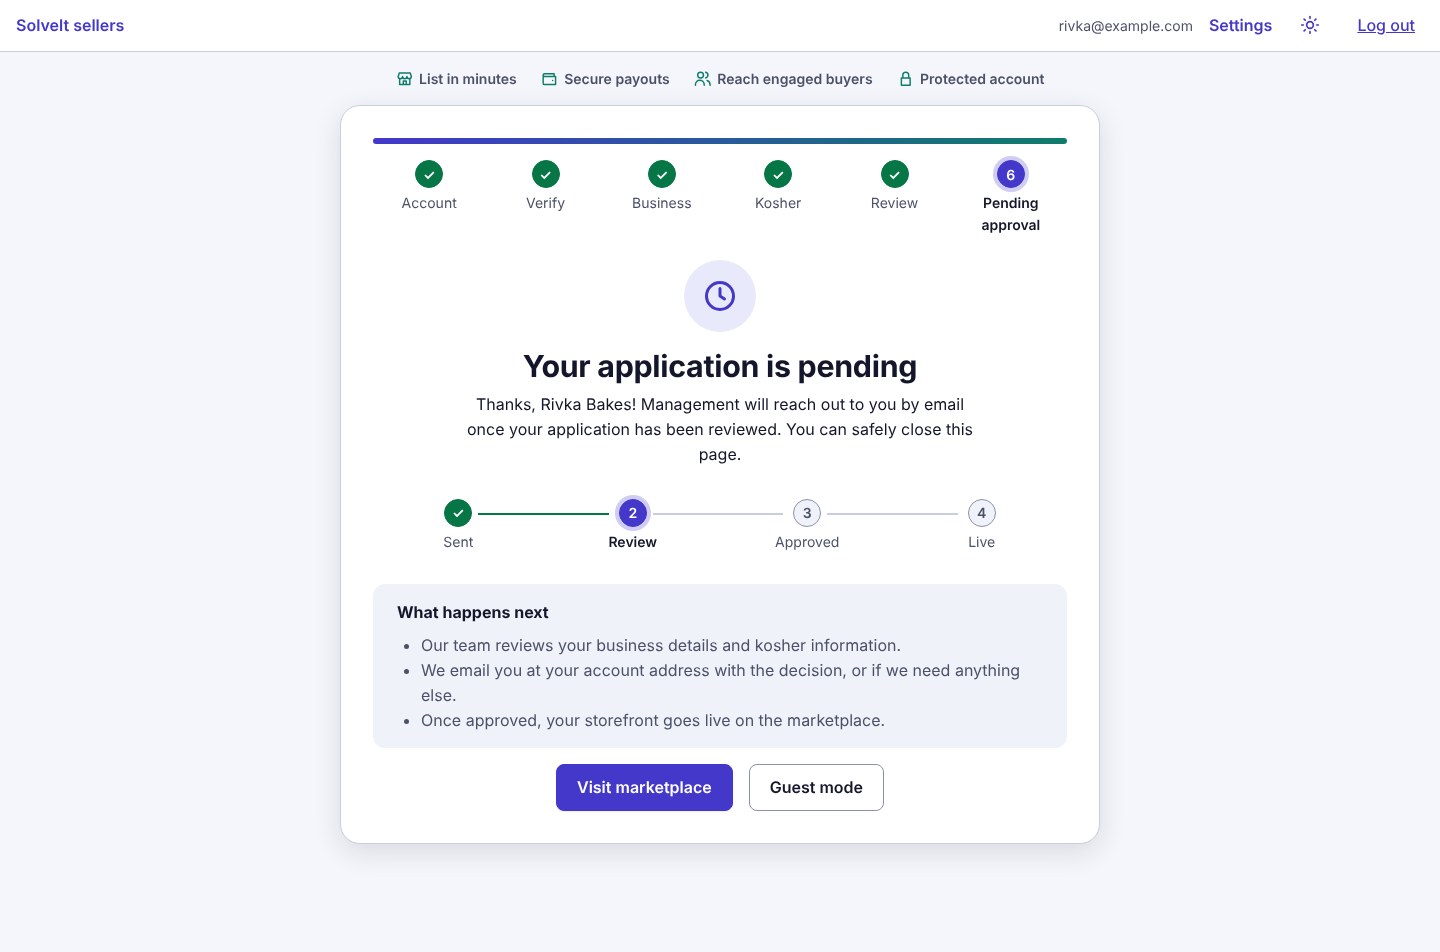
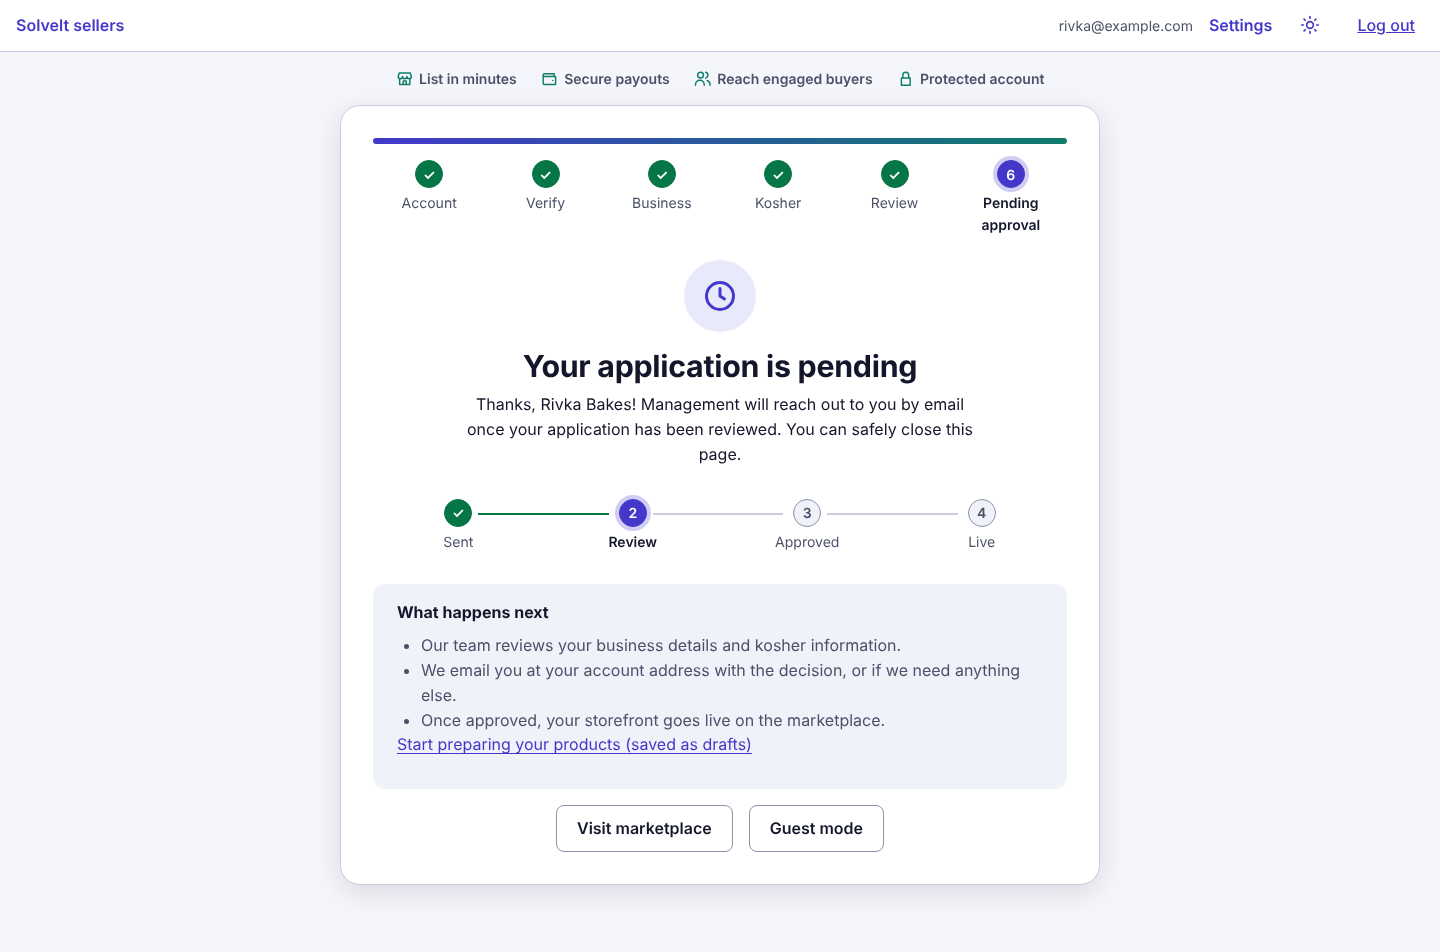
Approved/Live owners land on /products; status-aware pending screen (You're all set / drafts link, accurate copy); tests, e2e, screenshots, docs
Claude-Session: https://claude.ai/code/session_018hZb8p3U4e1ZXzoHRqf6yf

Changed region(s): [[0.25, 0.7616, 0.75, 0.9139]]

diff --git a/src/pages/wizard.test.tsx b/src/pages/wizard.test.tsx
@@ -199,6 +199,59 @@ describe('wizard navigation and guards', () => {
     expect(within(tracker).getByText('Approved').closest('li')).toHaveAttribute('aria-current', 'step')
   })
 
+  describe('pending screen by status', () => {
+    const open = async (status: string, note: string | null = null) => {
+      backend(application({ status, statusNote: note, draftStep: 5 }))
+      renderAt(wizardRoutes, '/signup/pending')
+      await screen.findByRole('heading', { level: 1 })
+    }
+    const productsLinks = () => screen.queryAllByRole('link').filter((l) => l.getAttribute('href') === '/products')
+
+    it('Live: "You\u2019re all set" with the primary products link and the live copy, no "What happens next"', async () => {
+      await open('Live')
+      expect(screen.getByRole('heading', { name: 'Your shop is live' })).toBeInTheDocument()
+      expect(screen.getByText(/Your shop is live on the marketplace/)).toBeInTheDocument()
+      expect(screen.getByRole('heading', { name: /You.re all set/ })).toBeInTheDocument()
+      const go = screen.getByRole('link', { name: 'Go to your products' })
+      expect(go).toHaveAttribute('href', '/products'); expect(go).toHaveClass('primary')
+      expect(screen.queryByRole('heading', { name: 'What happens next' })).not.toBeInTheDocument()
+      expect(screen.queryByRole('link', { name: /Start preparing your products/ })).not.toBeInTheDocument()
+      expect(screen.getByRole('link', { name: 'Visit marketplace' })).not.toHaveClass('primary') // one primary action per page
+    })
+
+    it('Approved: same, but says "approved \u2014 you can now publish", not that the shop is live', async () => {
+      await open('Approved')
+      expect(screen.getByText(/approved \u2014 you can now publish products/)).toBeInTheDocument()
+      expect(screen.queryByText(/shop is live/i)).not.toBeInTheDocument()
+      expect(screen.getByRole('heading', { name: /You.re all set/ })).toBeInTheDocument()
+      expect(screen.getByRole('link', { name: 'Go to your products' })).toHaveAttribute('href', '/products')
+      expect(screen.queryByRole('heading', { name: 'What happens next' })).not.toBeInTheDocument()
+    })
+
+    it('PendingReview: "What happens next" and a secondary drafts link, but no "Go to your products"', async () => {
+      await open('PendingReview')
+      expect(screen.getByRole('heading', { name: 'What happens next' })).toBeInTheDocument()
+      const drafts = screen.getByRole('link', { name: 'Start preparing your products (saved as drafts)' })
+      expect(drafts).toHaveAttribute('href', '/products'); expect(drafts).not.toHaveClass('primary')
+      expect(screen.queryByRole('link', { name: 'Go to your products' })).not.toBeInTheDocument()
+      expect(screen.queryByRole('heading', { name: /You.re all set/ })).not.toBeInTheDocument()
+    })
+
+    it('NeedsInfo sellers are sent back to the wizard (the guard never shows them the pending page)', async () => {
+      backend(application({ status: 'NeedsInfo', statusNote: 'Please upload a certificate', draftStep: 5 }))
+      renderAt(wizardRoutes, '/signup/pending')
+      expect(await screen.findByText('business step')).toBeInTheDocument()
+      expect(screen.queryByRole('link', { name: /products/i })).not.toBeInTheDocument()
+    })
+
+    it.each(['Rejected', 'Suspended'])('%s: no products links at all', async (status) => {
+      await open(status)
+      expect(productsLinks()).toHaveLength(0)
+      expect(screen.queryByRole('link', { name: /products/i })).not.toBeInTheDocument()
+      expect(screen.getByRole('status')).toBeInTheDocument()
+    })
+  })
+
   it('shows a progress bar for the current step', async () => {
     backend(application({ status: 'PendingReview' }))
     renderAt(wizardRoutes, '/signup/pending')

diff --git a/src/pages/wizard/PendingStep.tsx b/src/pages/wizard/PendingStep.tsx
@@ -19,6 +19,7 @@ export default function PendingStep() {
   const { app } = useWizard()
   const idx = trackerIndex(app.status)
   const decided = app.status === 'Approved' || app.status === 'Live'
+  const preparing = app.status === 'PendingReview' || app.status === 'NeedsInfo' // drafts are allowed while the application is in review
   return (
     <StepFrame index={5}>
       <div className="pending-head">
@@ -28,7 +29,9 @@ export default function PendingStep() {
       {app.status === 'Rejected' && <p role="status" className="alert error">Unfortunately your application was not approved.</p>}
       {app.status === 'Suspended' && <p role="status" className="alert error">Your account is suspended.</p>}
       {decided
-        ? <p role="status" className="alert success">Congratulations{app.business.vendorName ? `, ${app.business.vendorName}` : ''}! Your seller application has been approved.</p>
+        ? <p role="status" className="alert success">{app.status === 'Live'
+            ? 'Your shop is live on the marketplace.'
+            : 'You\u2019re approved \u2014 you can now publish products.'}{app.business.vendorName ? ` Welcome, ${app.business.vendorName}!` : ''}</p>
         : <p>Thanks{app.business.vendorName ? `, ${app.business.vendorName}` : ''}! Management will reach out to you by email once your application has been reviewed. You can safely close this page.</p>}
       </div>
       <ol className="tracker" aria-label="Application status">
@@ -38,16 +41,25 @@ export default function PendingStep() {
           </li>
         ))}
       </ol>
-      <div className="next">
-        <h2>What happens next</h2>
-        <ul>
-          <li>Our team reviews your business details and kosher information.</li>
-          <li>We email you at your account address with the decision, or if we need anything else.</li>
-          <li>Once approved, your storefront goes live on the marketplace.</li>
-        </ul>
-      </div>
+      {decided ? (
+        <div className="next">
+          <h2>You&rsquo;re all set</h2>
+          <p>Add your products, check how they look and publish them whenever you&rsquo;re ready.</p>
+          <div className="row"><Link className="btn primary" to="/products">Go to your products</Link></div>
+        </div>
+      ) : (
+        <div className="next">
+          <h2>What happens next</h2>
+          <ul>
+            <li>Our team reviews your business details and kosher information.</li>
+            <li>We email you at your account address with the decision, or if we need anything else.</li>
+            <li>Once approved, your storefront goes live on the marketplace.</li>
+          </ul>
+          {preparing && <p><Link to="/products">Start preparing your products (saved as drafts)</Link></p>}
+        </div>
+      )}
       <div className="row">
-        <a className="btn primary" href={app.marketplaceUrl} target="_blank" rel="noreferrer">Visit marketplace</a>
+        <a className="btn" href={app.marketplaceUrl} target="_blank" rel="noreferrer">Visit marketplace</a>
         <Link className="btn" to="/guest">Guest mode</Link>
       </div>
     </StepFrame>

diff --git a/src/pages/home.test.tsx b/src/pages/home.test.tsx
@@ -1,0 +1,56 @@
+import { describe, expect, it } from 'vitest'
+import { screen } from '@testing-library/react'
+import { http, HttpResponse } from 'msw'
+import { Route, Routes } from 'react-router-dom'
+import Home from './Home'
+import { RequireAuth } from '../components/RequireAuth'
+import { API, server } from '../test/server'
+import { renderAt, signedIn } from '../test/utils'
+
+const A = '11111111-1111-1111-1111-111111111111'
+const routes = (
+  <Routes>
+    <Route element={<RequireAuth />}>
+      <Route path="/" element={<Home />} />
+      <Route path="/products" element={<div>products page</div>} />
+      <Route path="/signup/pending" element={<div>application pending page</div>} />
+      <Route path="/signup/business" element={<div>business step page</div>} />
+    </Route>
+  </Routes>
+)
+const application = (status: string, draftStep = 5) => ({ sellerId: A, status, statusNote: null, draftStep, editable: false })
+const asOwner = (status: string, draftStep?: number) => {
+  signedIn({ sellerId: A, activeAccountId: A, accounts: [{ sellerId: A, vendorName: 'Acme Co', role: 'Owner', accountStatus: status, brandCount: 1 }] })
+  server.use(http.get(`${API}/seller/application`, () => HttpResponse.json(application(status, draftStep))))
+}
+
+describe('Home: where each signed-in user lands', () => {
+  it.each(['Approved', 'Live'])('an Owner whose application is %s lands on the product catalog', async (status) => {
+    asOwner(status)
+    renderAt(routes, '/')
+    expect(await screen.findByText('products page')).toBeInTheDocument()
+    expect(screen.queryByText('application pending page')).not.toBeInTheDocument()
+  })
+
+  it('an Owner still in review lands on the pending screen', async () => {
+    asOwner('PendingReview')
+    renderAt(routes, '/')
+    expect(await screen.findByText('application pending page')).toBeInTheDocument()
+    expect(screen.queryByText('products page')).not.toBeInTheDocument()
+  })
+
+  it('an Owner whose application needs info goes back to the wizard, not the catalog', async () => {
+    asOwner('NeedsInfo')
+    renderAt(routes, '/')
+    expect(await screen.findByText('business step page')).toBeInTheDocument()
+  })
+
+  it('team members (non-Owners) still land on the product catalog without loading the application', async () => {
+    signedIn({ sellerId: A, activeAccountId: A, accounts: [{ sellerId: A, vendorName: 'Acme Co', role: 'Manager', accountStatus: 'Approved', brandCount: 1 }] })
+    let asked = false
+    server.use(http.get(`${API}/seller/application`, () => { asked = true; return HttpResponse.json(application('PendingReview')) }))
+    renderAt(routes, '/')
+    expect(await screen.findByText('products page')).toBeInTheDocument()
+    expect(asked).toBe(false)
+  })
+})

diff --git a/e2e/portal.spec.ts b/e2e/portal.spec.ts
@@ -91,8 +91,14 @@ test('admin approves via API; login, redirect-back and logout', async ({ page, r
   await expect(page).toHaveURL(/\/settings\/security$/)
   await expect(page.getByRole('heading', { name: 'Change password' })).toBeVisible()
   await expectNoSeriousA11y(page)
-  // pending screen shows the Approved stage
+  // an approved owner no longer lands on the pending screen: '/' goes to the product catalog
   await page.goto('/')
+  await expect(page).toHaveURL(/\/products/)
+  // the pending screen is still reachable directly and shows the Approved stage
+  await page.goto('/signup/pending')
+  await expect(page.getByRole('link', { name: 'Go to your products' })).toHaveAttribute('href', '/products')
+  await expect(page.getByRole('heading', { name: 'What happens next' })).toHaveCount(0)
+  await expectNoSeriousA11y(page)
   await expect(page.getByRole('list', { name: 'Application status' }).getByText('Approved').locator('..')).toHaveAttribute('aria-current', 'step')
   // reload keeps the session (refresh cookie); logout ends it
   await page.reload()
@@ -105,7 +111,7 @@ test('admin approves via API; login, redirect-back and logout', async ({ page, r
   await page.goto('/login?next=' + encodeURIComponent('https://evil.example/'))
   await uiLogin(page, s.email)
   await dismissPasskeyOffer(page)
-  await expect(page).toHaveURL(/localhost:5173\/(signup\/pending)?$/)
+  await expect(page).toHaveURL(/localhost:5173\/products/) // safe redirect target is the landing page, which sends an approved owner to the catalog
 })
 
 test('lockout path: 2 tries left, last try + captcha, lock + Locked email', async ({ page, request }) => {

diff --git a/e2e-ui/ui.spec.ts b/e2e-ui/ui.spec.ts
@@ -52,6 +52,8 @@ const screens: { name: string; path: string; authed?: boolean; status?: string; 
   { name: 'phone-link-expired', path: '/l/dead', heading: /this link can.t be used/i },
   { name: 'review', path: '/signup/review', authed: true, status: 'Draft', draftStep: 5, heading: /review your application/i },
   { name: 'pending', path: '/signup/pending', authed: true, heading: /pending/i },
+  { name: 'pending-approved', path: '/signup/pending', authed: true, status: 'Approved', draftStep: 5, heading: /your application is approved/i },
+  { name: 'pending-live', path: '/signup/pending', authed: true, status: 'Live', draftStep: 5, heading: /your shop is live/i },
   { name: 'settings-security', path: '/settings/security', authed: true, heading: /account settings/i, act: async (p) => { await expect(p.getByRole('heading', { name: /passkeys/i }).first()).toBeVisible() } },
 ]
 

diff --git a/src/pages/Home.tsx b/src/pages/Home.tsx
@@ -5,7 +5,7 @@ import { useAuth } from '../auth'
 import { Card, Spinner } from '../components/ui'
 import { stepPath, type Application } from './wizard/shared'
 
-/** Entry after sign-in: routes the seller to the right wizard step / pending screen. */
+/** Entry after sign-in: routes the seller to the right wizard step / pending screen, or to the catalog once approved. */
 export default function Home() {
   const { user, logout } = useAuth()
   const [app, setApp] = useState<Application | null>(null)
@@ -28,5 +28,7 @@ export default function Home() {
     )
   }
   if (!app) return <div className="center"><Spinner /></div>
+  // Approved / Live owners have nothing left to fill in: they work in the product catalog.
+  if (app.status === 'Approved' || app.status === 'Live') return <Navigate to="/products" replace />
   return <Navigate to={stepPath(app)} replace />
 }

diff --git a/docs/DESIGN.md b/docs/DESIGN.md
@@ -97,3 +97,10 @@ Code: `src/orders/**` (lazy routes `/orders`, `/orders/:id`, `/messages/:id?`, d
 - **Standards:** one `h1` per page, labelled controls, 44 px targets, visible focus, `aria-live` status/errors, reduced motion, light/dark through tokens, responsive from 320 px, route-level code splitting.
 - **Tests:** Vitest `src/orders/orders.test.tsx` and `messages.test.tsx` (list tabs/filters/bulk/CSV/packing slips, detail actions, partial ship dialog, refund limits and confirmation, returns, cancellation requests, roles, notes, messages, contact warning, drafts, attachments, badges, preferences); real-backend Playwright `e2e/orders.spec.ts` (simulator order accept → partial ship → ship rest → delivered; buyer cancel request approved with stock restored; return → approve → received → partial refund; Manager of brand X cannot see brand Y; Viewer cannot act; buyer message → saved reply + image → reply event in the dev sink; pre-sale question; CSV upload; notification settings) with axe on every new page and dialog; `SHOTS_DIR=docs/screenshots npx playwright test e2e/orders-shots.spec.ts` captures `orders-*`, `order-*`, `messages-*`, `settings-notifications-*` (desktop + mobile).
 
+## Pending screen and landing by status
+- **Landing (`Home`)**: Owners whose application is `Approved` or `Live` go straight to `/products`; every other status keeps `stepPath(app)` (wizard step or `/signup/pending`). Team members (non-Owners) still go to `/products` without loading the application.
+- **`/signup/pending` is status-aware.** Undecided (`PendingReview`) shows "What happens next" plus a secondary link "Start preparing your products (saved as drafts)", because drafts are allowed while the application is in review. `Approved` and `Live` replace it with a "You're all set" card whose single primary action is **Go to your products**; "Visit marketplace" is always secondary (one primary action per page). `Rejected` and `Suspended` show no products links.
+- **Copy is per status and accurate:** Approved says "You're approved — you can now publish products" and never claims the shop is live; only `Live` says "Your shop is live on the marketplace".
+- `NeedsInfo` never reaches this page: `WizardLayout` sends it back to the business step, so its branch here is defensive only.
+- Open product decision (not changed here): what makes a shop `Live` (first publish, staff action, or no separate state). Status handling stays generic.
+- Tests: `src/pages/wizard.test.tsx` (per-status pending screen), `src/pages/home.test.tsx` (landing), `e2e/portal.spec.ts` (real backend: `/` lands on `/products`, pending page still reachable), and mocked-UI screens `pending-approved` / `pending-live` with axe and screenshots.
